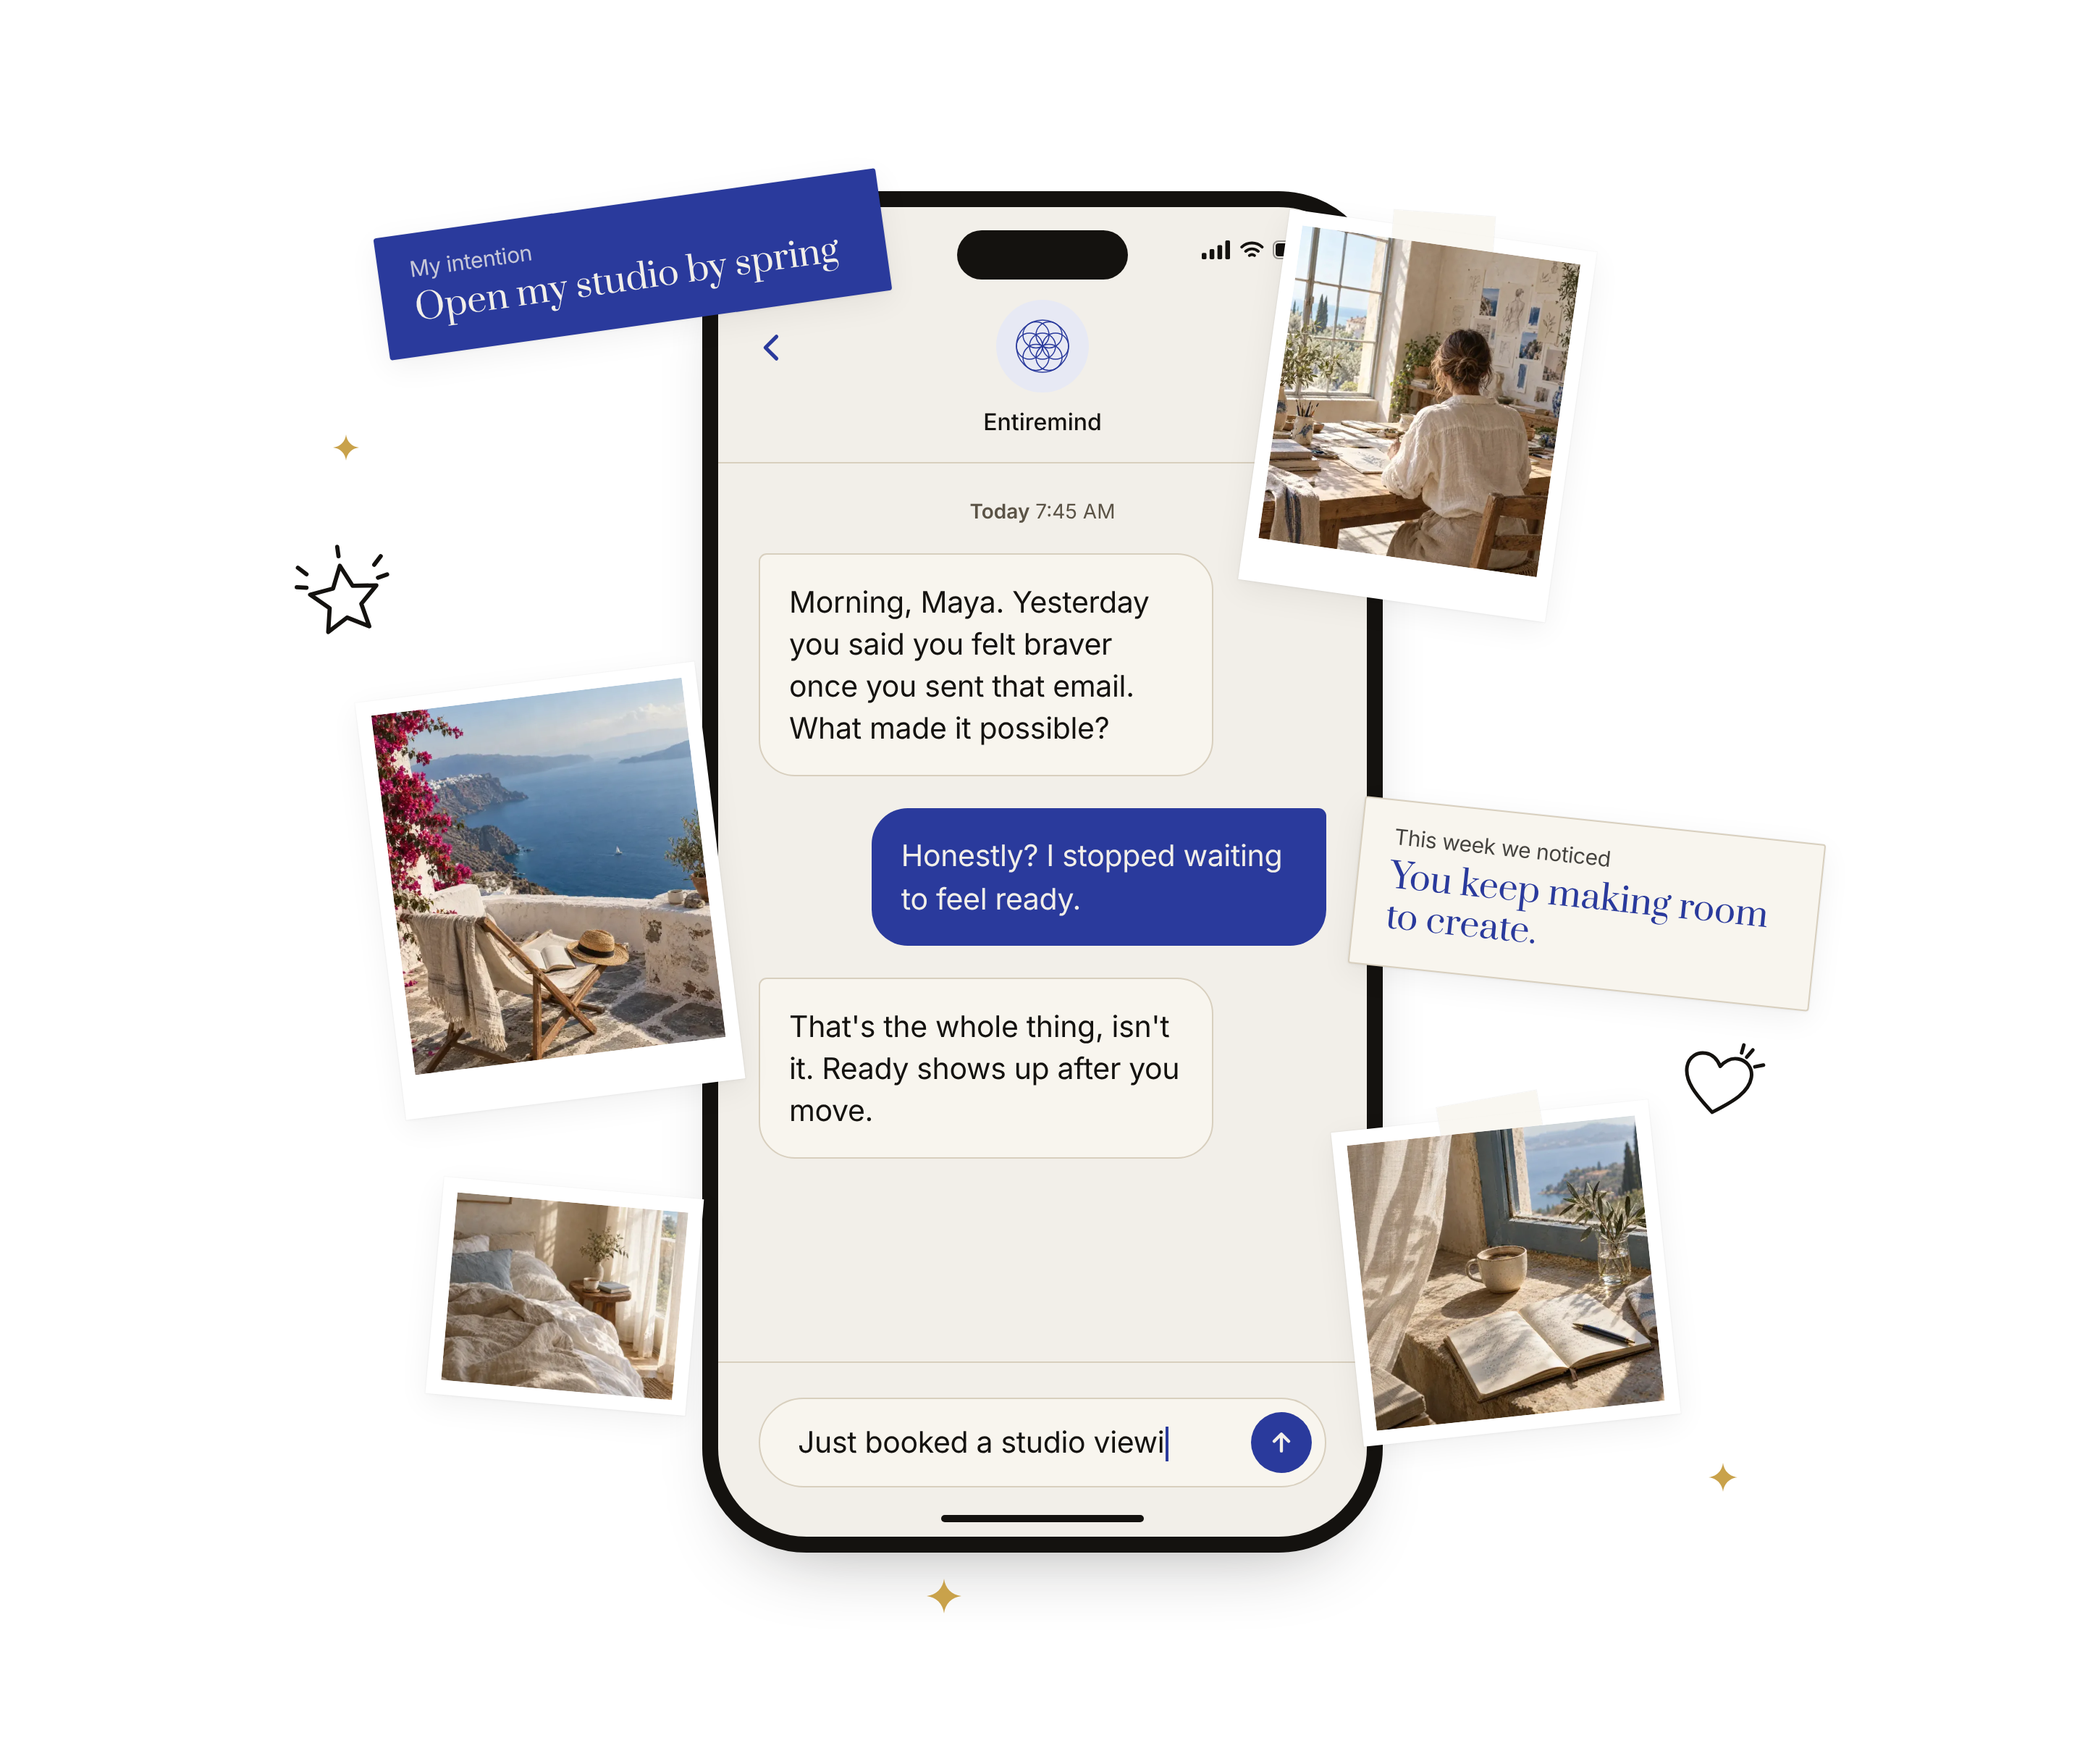
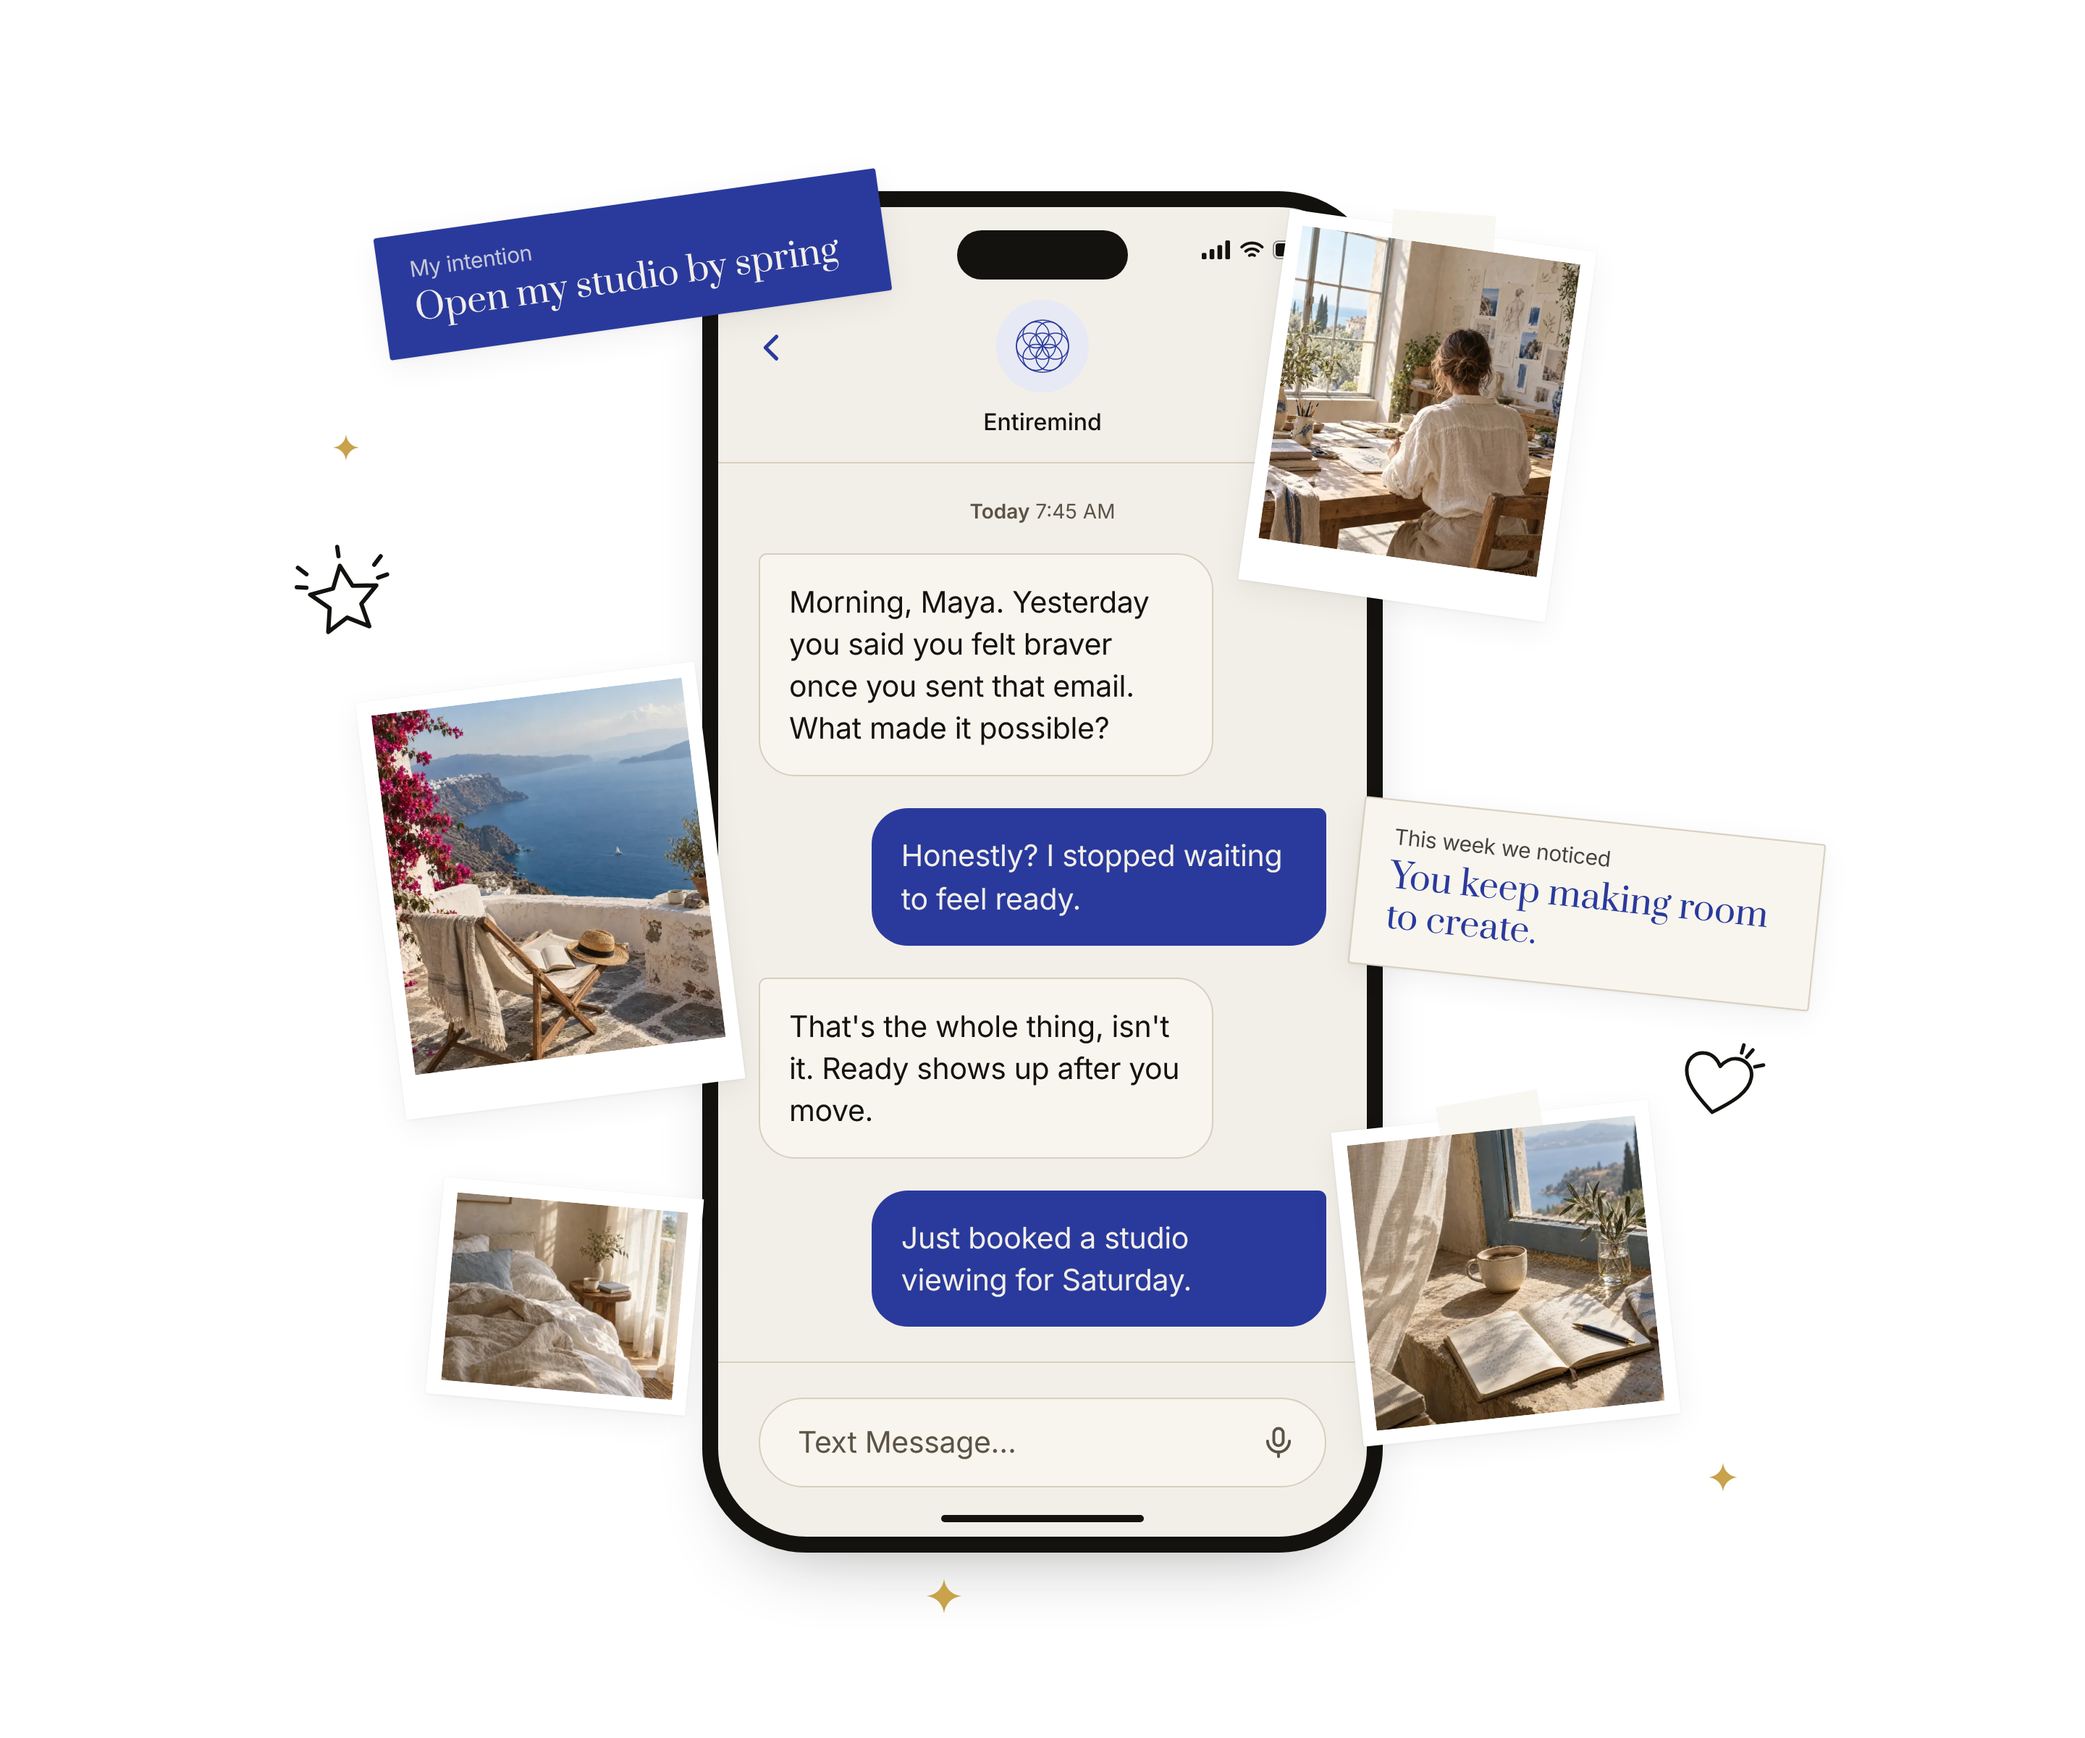
SmsPhone: send Maya's reply as a bubble, leave the composer empty
The half-typed draft becomes a sent message, 'Just booked a studio
viewing for Saturday.', which fills the screen. The composer shows the
empty 'Text Message...' placeholder with the mic, as Messages does
before anything is typed. This applies to SMS_CONTENT only: HeroPhone
keeps its typed draft. The scatter and spill scenes pick this up, and
one print moves to clear the new bubble.

Claude-Session: https://claude.ai/code/session_01XFR3k6ZrktobPacJJyLqAi

Changed region(s): [[0.4062, 0.6875, 0.6562, 0.7812], [0.375, 0.8125, 0.5625, 0.8438], [0.5938, 0.8125, 0.625, 0.8438]]

diff --git a/src/components/landing/sms-phone.tsx b/src/components/landing/sms-phone.tsx
@@ -13,8 +13,9 @@ import styles from "./sms-phone.module.css";
  *   avatar above the name. Never a raster logo that can garble.
  * - One "Today 7:45 AM" (the daily send time) instead of a timestamp under
  *   every bubble, which Messages doesn't do.
- * - The conversation ends on the person's half-typed reply in the composer
- *   rather than on a typing indicator.
+ * - The conversation ends on the person's own reply rather than on a typing
+ *   indicator. With a `draft`, the reply is half-typed in the composer;
+ *   without one (SMS_CONTENT), it is sent and the composer sits empty.
  *
  * Static by design; motion and rotation belong to wherever it is placed.
  * Reads the same `HeroPhoneContent` as HeroPhone, so both phones always
@@ -127,18 +128,33 @@ export function SmsPhone({
               ) : (
                 <span className={styles.placeholder}>Text Message…</span>
               )}
-              <span className={styles.send}>
+              {content.draft ? (
+                <span className={styles.send}>
+                  <svg
+                    viewBox="0 0 24 24"
+                    fill="none"
+                    stroke="currentColor"
+                    strokeWidth="2.6"
+                    strokeLinecap="round"
+                    strokeLinejoin="round"
+                  >
+                    <path d="M12 19V5M6 11l6-6 6 6" />
+                  </svg>
+                </span>
+              ) : (
+                // Nothing typed: the quiet mic, as in Messages.
                 <svg
+                  className={styles.mic}
                   viewBox="0 0 24 24"
                   fill="none"
                   stroke="currentColor"
-                  strokeWidth="2.6"
+                  strokeWidth="1.8"
                   strokeLinecap="round"
-                  strokeLinejoin="round"
                 >
-                  <path d="M12 19V5M6 11l6-6 6 6" />
+                  <rect x="9" y="3" width="6" height="11" rx="3" />
+                  <path d="M5 11a7 7 0 0 0 14 0M12 18v3" />
                 </svg>
-              </span>
+              )}
             </div>
             <span className={styles.homeBar} />
           </div>

diff --git a/src/components/landing/hero-scene.tsx b/src/components/landing/hero-scene.tsx
@@ -1,7 +1,7 @@
 import type { CSSProperties, ReactNode } from "react";
 import Image from "next/image";
 import { HeroPhone } from "./hero-phone";
-import { ENTIREMIND_CONTENT } from "./hero-phone-content";
+import { ENTIREMIND_CONTENT, SMS_CONTENT } from "./hero-phone-content";
 import { SmsPhone } from "./sms-phone";
 import styles from "./hero-scene.module.css";
 
@@ -333,7 +333,7 @@ function SpillLayout() {
         alt="A woman walking a coastal path above the sea"
       />
       <Print
-        box={at(918, 740, 236, 270, 5)}
+        box={at(934, 744, 236, 270, 5)}
         src={PHOTO.beachWalk}
         alt="A woman walking a quiet beach at sunrise"
       />
@@ -469,7 +469,7 @@ export function HeroScene({
       <div className={styles.canvas}>
         <div className={styles.phone}>
           {layout === "scatter" || layout === "spill" ? (
-            <SmsPhone content={ENTIREMIND_CONTENT} />
+            <SmsPhone content={SMS_CONTENT} />
           ) : (
             <HeroPhone content={ENTIREMIND_CONTENT} />
           )}

diff --git a/src/components/landing/hero-phone-content.tsx b/src/components/landing/hero-phone-content.tsx
@@ -219,6 +219,20 @@ export const ENTIREMIND_CONTENT: HeroPhoneContent = {
   },
 };
 
+/**
+ * The Messages-style SmsPhone's conversation: the same thread, with Maya's
+ * reply sent rather than half-typed, so the screen fills and the composer
+ * sits empty.
+ */
+export const SMS_CONTENT: HeroPhoneContent = {
+  ...ENTIREMIND_CONTENT,
+  bubbles: [
+    ...ENTIREMIND_CONTENT.bubbles,
+    { from: "me", text: "Just booked a studio viewing for Saturday." },
+  ],
+  draft: undefined,
+};
+
 /** Alternate: the intention in the person's own words, in the brand serif. */
 export const ENTIREMIND_QUOTE_CONTENT: HeroPhoneContent = {
   ...ENTIREMIND_CONTENT,

diff --git a/src/app/preview/hero-phone/page.tsx b/src/app/preview/hero-phone/page.tsx
@@ -6,6 +6,7 @@ import { HeroPhoneMotion } from "@/components/landing/hero-phone-motion";
 import { SmsPhone } from "@/components/landing/sms-phone";
 import {
   ENTIREMIND_CONTENT,
+  SMS_CONTENT,
   ENTIREMIND_QUOTE_CONTENT,
   ENTIREMIND_VISUAL_CONTENT,
   REPLICA_CONTENT,
@@ -97,7 +98,7 @@ export default async function HeroPhonePreview({
         style={{ width: size, height: size, background: BACKGROUNDS[bg] }}
       >
         {sms ? (
-          <SmsPhone content={content} />
+          <SmsPhone content={SMS_CONTENT} />
         ) : (
           <Phone content={content} font={font} replyTone={reply} />
         )}

diff --git a/src/components/landing/sms-phone.module.css b/src/components/landing/sms-phone.module.css
@@ -239,6 +239,14 @@
   height: calc(var(--u) * 20);
 }
 
+.mic {
+  flex: none;
+  width: calc(var(--u) * 26);
+  height: calc(var(--u) * 26);
+  margin-right: calc(var(--u) * 10);
+  color: var(--color-muted);
+}
+
 .homeBar {
   position: absolute;
   left: 50%;
